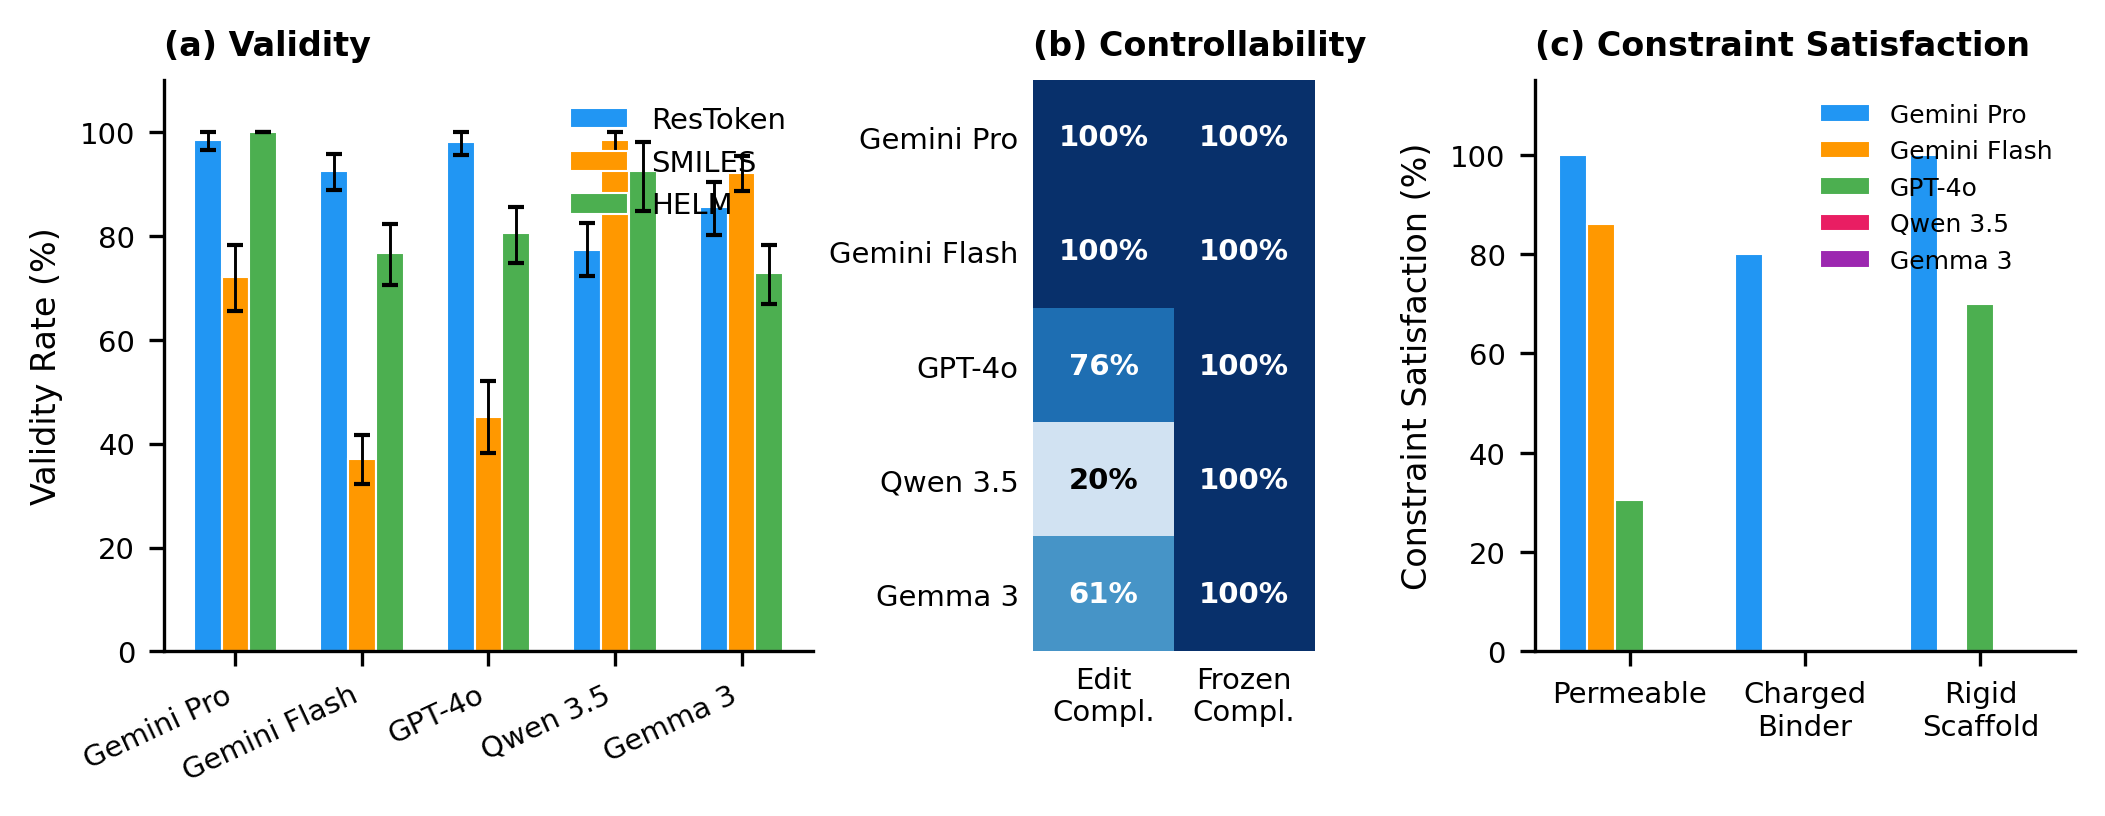
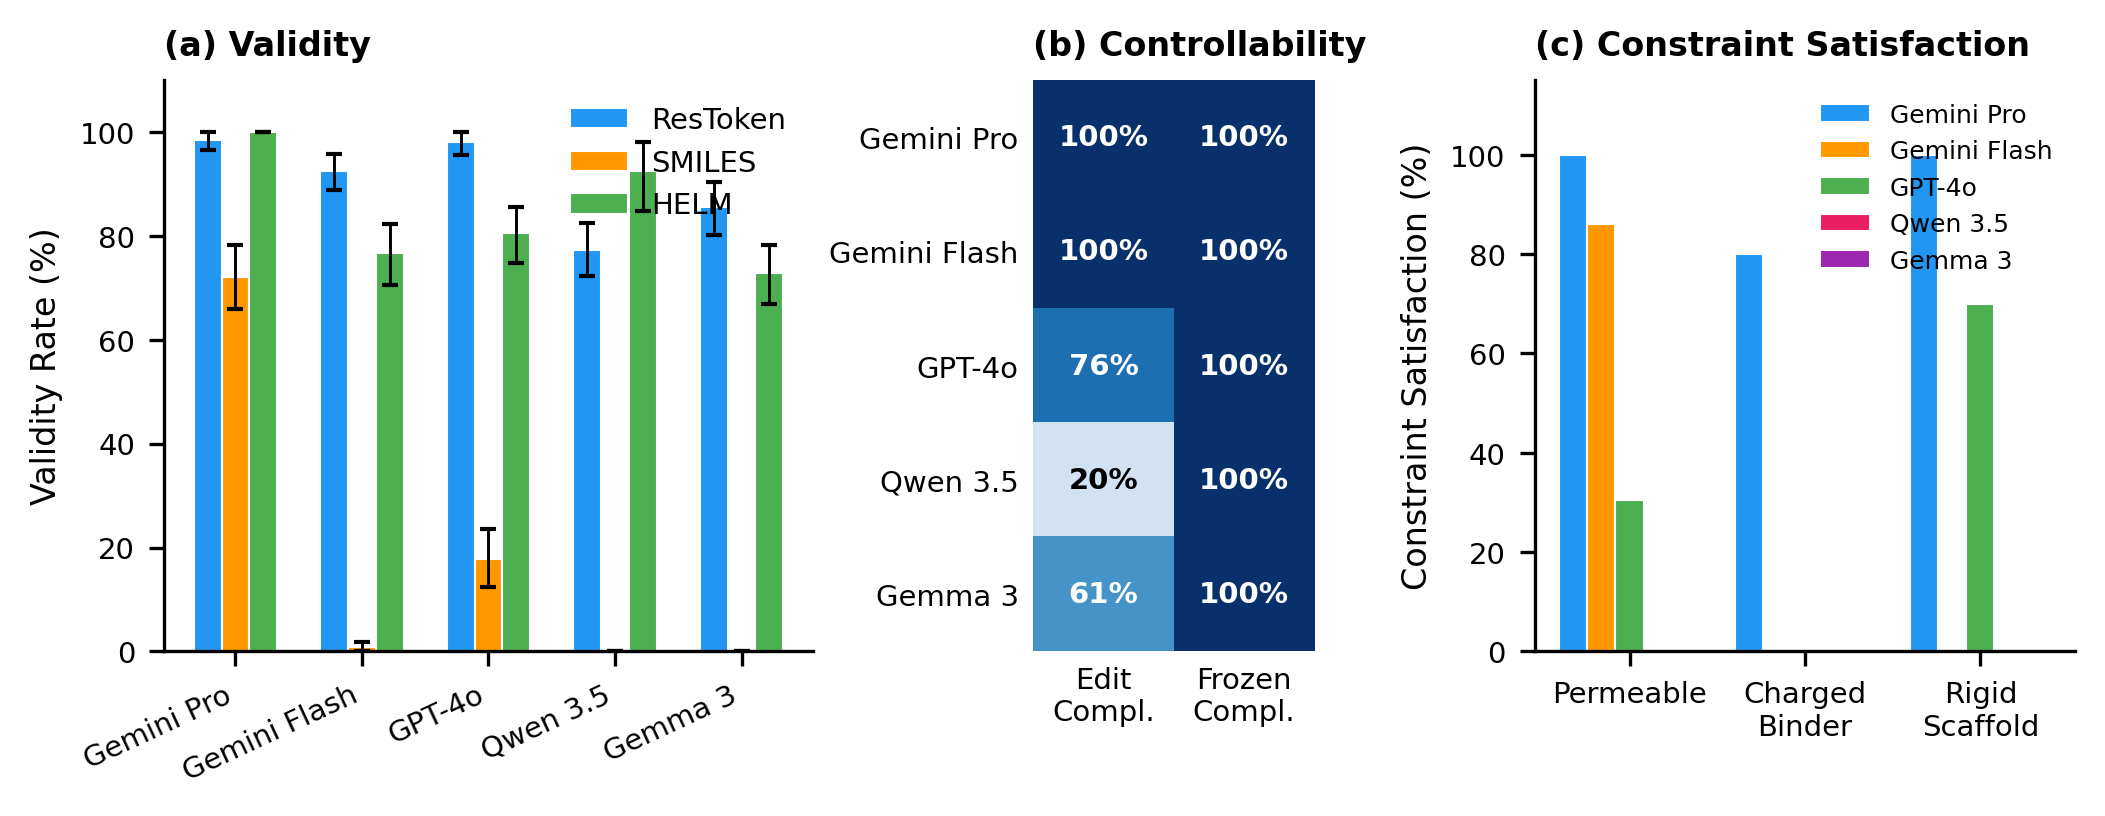
Update figures, tables, and SI with corrected metrics
- Fig 2a: SMILES bars now show task validity (parse + macrocycle),
  making Qwen/Gemma near-zero instead of misleadingly high
- Table 2: add SMILES Parse vs Task validity columns, add mean row
- Table constraints: rigid baseline 0.81% → 0.71% (flex_bin added)
- SI Table S1: SMILES values shown as "parse (task)" format
- SI Table S8: rigid enrichments recalculated (Pro 123→141x,
  GPT-4o 86→99x, mean 105→120x)
- SI S2.3/S3: all rigid baseline references updated to 0.71%

diff --git a/manuscript/tables/w2_table2_validity.tex b/manuscript/tables/w2_table2_validity.tex
@@ -1,19 +1,21 @@
 \begin{table}[htbp]
 \centering
-\caption{Zero-shot sequence validity across models and representations (Experiment~1, $n=200$ requested per condition). Validity = fraction of parsed sequences passing all seven constraint checks. TxGemma~9B failed to produce any parseable output and is omitted.}
+\caption{Zero-shot sequence validity across models and representations (Experiment~1, $n=200$ requested per condition). ResToken validity = format + ID + length checks. SMILES Parse = RDKit-parseable molecules; SMILES Task = parseable \emph{and} macrocyclic. HELM validity = format + monomer ID + length. TxGemma~9B produced zero parseable output and is omitted.}
 \label{tab:w2-exp1-validity}
 \small
-\begin{tabular}{l *{3}{r} *{3}{r}}
+\begin{tabular}{l *{3}{r} *{4}{r}}
 \toprule
-& \multicolumn{3}{c}{\textbf{Parsed ($n$)}} & \multicolumn{3}{c}{\textbf{Validity (\%)}} \\
-\cmidrule(lr){2-4} \cmidrule(lr){5-7}
-Model & ResToken & SMILES & HELM & ResToken & SMILES & HELM \\
+& \multicolumn{3}{c}{\textbf{Parsed ($n$)}} & \multicolumn{4}{c}{\textbf{Validity (\%)}} \\
+\cmidrule(lr){2-4} \cmidrule(lr){5-8}
+Model & ResToken & SMILES & HELM & ResToken & \shortstack{SMILES\\(Parse)} & \shortstack{SMILES\\(Task)} & HELM \\
 \midrule
-Gemini 2.5 Pro & 200 & 197 & 200 & \textbf{98.5} & 72.1 & \textbf{100.0} \\
-Gemini 2.5 Flash & 215 & 395 & 214 & 92.6 & 37.0 & 76.6 \\
-GPT-4o & 160 & 186 & 195 & 98.1 & 45.2 & 80.5 \\
-Qwen 3.5 9B & 256 & 125 & 53 & 77.3 & \textbf{98.4} & 92.5 \\
-Gemma 3 12B & 167 & 256 & 239 & 85.6 & 92.2 & 72.8 \\
+Gemini 2.5 Pro & 200 & 197 & 200 & \textbf{98.5} & 72.1 & 72.1 & \textbf{100.0} \\
+Gemini 2.5 Flash & 215 & 395 & 214 & 92.6 & 37.0 & 0.8 & 76.6 \\
+GPT-4o & 160 & 186 & 195 & 98.1 & 45.2 & 17.7 & 80.5 \\
+Qwen 3.5 9B & 256 & 125 & 53 & 77.3 & 98.4 & 0.0 & 92.5 \\
+Gemma 3 12B & 167 & 256 & 239 & 85.6 & 92.2 & 0.0 & 72.8 \\
+\midrule
+Mean & & & & \textbf{90.4} & 69.0 & 18.1 & 84.5 \\
 \bottomrule
 \end{tabular}
 \end{table}

diff --git a/manuscript/tables/w2_table_constraints.tex b/manuscript/tables/w2_table_constraints.tex
@@ -1,6 +1,6 @@
 \begin{table}[htbp]
 \centering
-\caption{Property-constrained generation (Experiment~3, ResToken, $n=100$ requested per condition). Constraint satisfaction = fraction of valid sequences meeting all profile constraints. Random baseline acceptance rates: permeable 2.07\%, charged 1.82\%, rigid 0.81\%.}
+\caption{Property-constrained generation (Experiment~3, ResToken, $n=100$ requested per condition). Constraint satisfaction = fraction of valid sequences meeting all profile constraints. Random baseline acceptance rates: permeable 2.07\%, charged 1.82\%, rigid 0.71\%.}
 \label{tab:w2-exp3-constraints}
 \small
 \begin{tabular}{l l rrr}

diff --git a/manuscript/drafts/supporting_information.md b/manuscript/drafts/supporting_information.md
@@ -28,7 +28,7 @@
 
 ## SI Table S1: Zero-Shot Generation Validity (Experiment 1)
 
-$n = 200$ sequences requested per model-representation condition. Validity = fraction of parsed sequences passing all seven constraint checks (ID existence, format, length, charge, HBD, HBA, rotatable bonds, backbone compatibility). TxGemma 9B produced zero parseable output across all representations and is excluded.
+$n = 200$ sequences requested per model-representation condition. Validity = fraction of parsed sequences passing all applicable checks. For SMILES, values are shown as "parse validity (task validity)" where parse validity = RDKit-parseable and task validity = parseable AND macrocyclic. TxGemma 9B produced zero parseable output across all representations and is excluded.
 
 ```latex
 \begin{table}[htbp]
@@ -42,14 +42,14 @@ $n = 200$ sequences requested per model-representation condition. Validity = fra
 \cmidrule(lr){2-4} \cmidrule(lr){5-7}
 Model & ResToken & SMILES & HELM & ResToken & SMILES & HELM \\
 \midrule
-Gemini 2.5 Pro & 200 & 197 & 200 & \textbf{98.5} & 72.1 & \textbf{100.0} \\
-Gemini 2.5 Flash & 215 & 395 & 214 & 92.6 & 37.0 & 76.6 \\
-GPT-4o & 160 & 186 & 195 & 98.1 & 45.2 & 80.5 \\
-Qwen 3.5 9B & 256 & 125 & 53 & 77.3 & \textbf{98.4} & 92.5 \\
-Gemma 3 12B & 167 & 256 & 239 & 85.6 & 92.2 & 72.8 \\
+Gemini 2.5 Pro & 200 & 197 & 200 & \textbf{98.5} & 72.1 (72.1) & \textbf{100.0} \\
+Gemini 2.5 Flash & 215 & 395 & 214 & 92.6 & 37.0 (0.8) & 76.6 \\
+GPT-4o & 160 & 186 & 195 & 98.1 & 45.2 (17.7) & 80.5 \\
+Qwen 3.5 9B & 256 & 125 & 53 & 77.3 & 98.4 (0.0) & 92.5 \\
+Gemma 3 12B & 167 & 256 & 239 & 85.6 & 92.2 (0.0) & 72.8 \\
 \midrule
-\textit{Mean} & & & & 90.4 & 69.0 & 84.5 \\
-\textit{Std} & & & & 9.0 & 27.4 & 11.4 \\
+\textit{Mean} & & & & 90.4 & 69.0 (18.1) & 84.5 \\
+\textit{Std} & & & & 9.0 & 27.4 (31.7) & 11.4 \\
 \bottomrule
 \end{tabular}
 \end{table}
@@ -228,20 +228,20 @@ Enrichment = observed constraint satisfaction rate / random baseline acceptance 
 |---|---|---|---|---|---|---|
 | Gemini 2.5 Pro | Permeable | 100.0 | 2.07 | **48.3** | 98 | 98 |
 | Gemini 2.5 Pro | Charged binder | 80.0 | 1.82 | **44.0** | 100 | 80 |
-| Gemini 2.5 Pro | Rigid scaffold | 100.0 | 0.81 | **123.5** | 101 | 101 |
+| Gemini 2.5 Pro | Rigid scaffold | 100.0 | 0.71 | **140.8** | 101 | 101 |
 | Gemini 2.5 Flash | Permeable | 86.1 | 2.07 | **41.6** | 101 | 87 |
 | Gemini 2.5 Flash | Charged binder | 0.0 | 1.82 | 0.0 | 99 | 0 |
-| Gemini 2.5 Flash | Rigid scaffold | 0.0 | 0.81 | 0.0 | 107 | 0 |
+| Gemini 2.5 Flash | Rigid scaffold | 0.0 | 0.71 | 0.0 | 107 | 0 |
 | GPT-4o | Permeable | 30.4 | 2.07 | **14.7** | 92 | 28 |
 | GPT-4o | Charged binder | 0.0 | 1.82 | 0.0 | 88 | 0 |
-| GPT-4o | Rigid scaffold | 70.0 | 0.81 | **86.4** | 20 | 14 |
+| GPT-4o | Rigid scaffold | 70.0 | 0.71 | **98.6** | 20 | 14 |
 | Qwen 3.5 9B | All profiles | 0.0 | — | 0.0 | — | 0 |
 | Gemma 3 12B | All profiles | 0.0 | — | 0.0 | — | 0 |
 
 **Aggregate enrichment** (mean across models with nonzero satisfaction):
 - Permeable: 34.9x (3 models)
 - Charged binder: 44.0x (1 model)
-- Rigid scaffold: 104.9x (2 models)
+- Rigid scaffold: 119.7x (2 models)
 
 ---
 
@@ -281,7 +281,7 @@ Donut charts showing library composition by backbone type, chirality, charge, an
 
 ![Baseline distributions](../figures/generated/fig_baseline_distributions.png)
 
-Distribution of constraint satisfaction for 100,000 uniform-random 6-mer ResToken sequences under each constraint profile. The extremely low acceptance rates (permeable: 2.07%, charged binder: 1.82%, rigid scaffold: 0.81%) demonstrate that satisfying multiple simultaneous physicochemical constraints is rare under random sampling, quantifying the value of LLM-guided constraint-aware generation.
+Distribution of constraint satisfaction for 100,000 uniform-random 6-mer ResToken sequences under each constraint profile. The extremely low acceptance rates (permeable: 2.07%, charged binder: 1.82%, rigid scaffold: 0.71%) demonstrate that satisfying multiple simultaneous physicochemical constraints is rare under random sampling, quantifying the value of LLM-guided constraint-aware generation.
 
 ---
 
@@ -544,7 +544,7 @@ Designed for conformationally constrained peptides with reduced flexibility.
 - Sequence length = 6
 ```
 
-Random baseline acceptance: **0.81%** (810 / 100,000 random 6-mers).
+Random baseline acceptance: **0.71%** (710 / 100,000 random 6-mers).
 
 ---
 
@@ -552,7 +552,7 @@ Random baseline acceptance: **0.81%** (810 / 100,000 random 6-mers).
 
 Random baselines were computed by uniform-random sampling from the 400-block ResToken library. For each constraint profile, 100,000 sequences of length 6 were generated by independently sampling each position uniformly from the full library. Each sequence was evaluated against the profile's constraints using the same `SequenceValidator` applied to LLM-generated sequences. The acceptance rate (fraction of random sequences satisfying all constraints) serves as the null hypothesis: the rate at which random exploration of the combinatorial space would discover valid designs.
 
-The low acceptance rates (0.81%–2.07%) confirm that the constraint profiles are non-trivial — satisfying multiple simultaneous physicochemical constraints is rare under naive sampling. Enrichment is reported as fold-improvement: $E = r_\text{observed} / r_\text{random}$, where $r_\text{observed}$ is the LLM constraint satisfaction rate among valid sequences and $r_\text{random}$ is the random baseline acceptance rate.
+The low acceptance rates (0.71%–2.07%) confirm that the constraint profiles are non-trivial — satisfying multiple simultaneous physicochemical constraints is rare under naive sampling. Enrichment is reported as fold-improvement: $E = r_\text{observed} / r_\text{random}$, where $r_\text{observed}$ is the LLM constraint satisfaction rate among valid sequences and $r_\text{random}$ is the random baseline acceptance rate.
 
 ---
 
